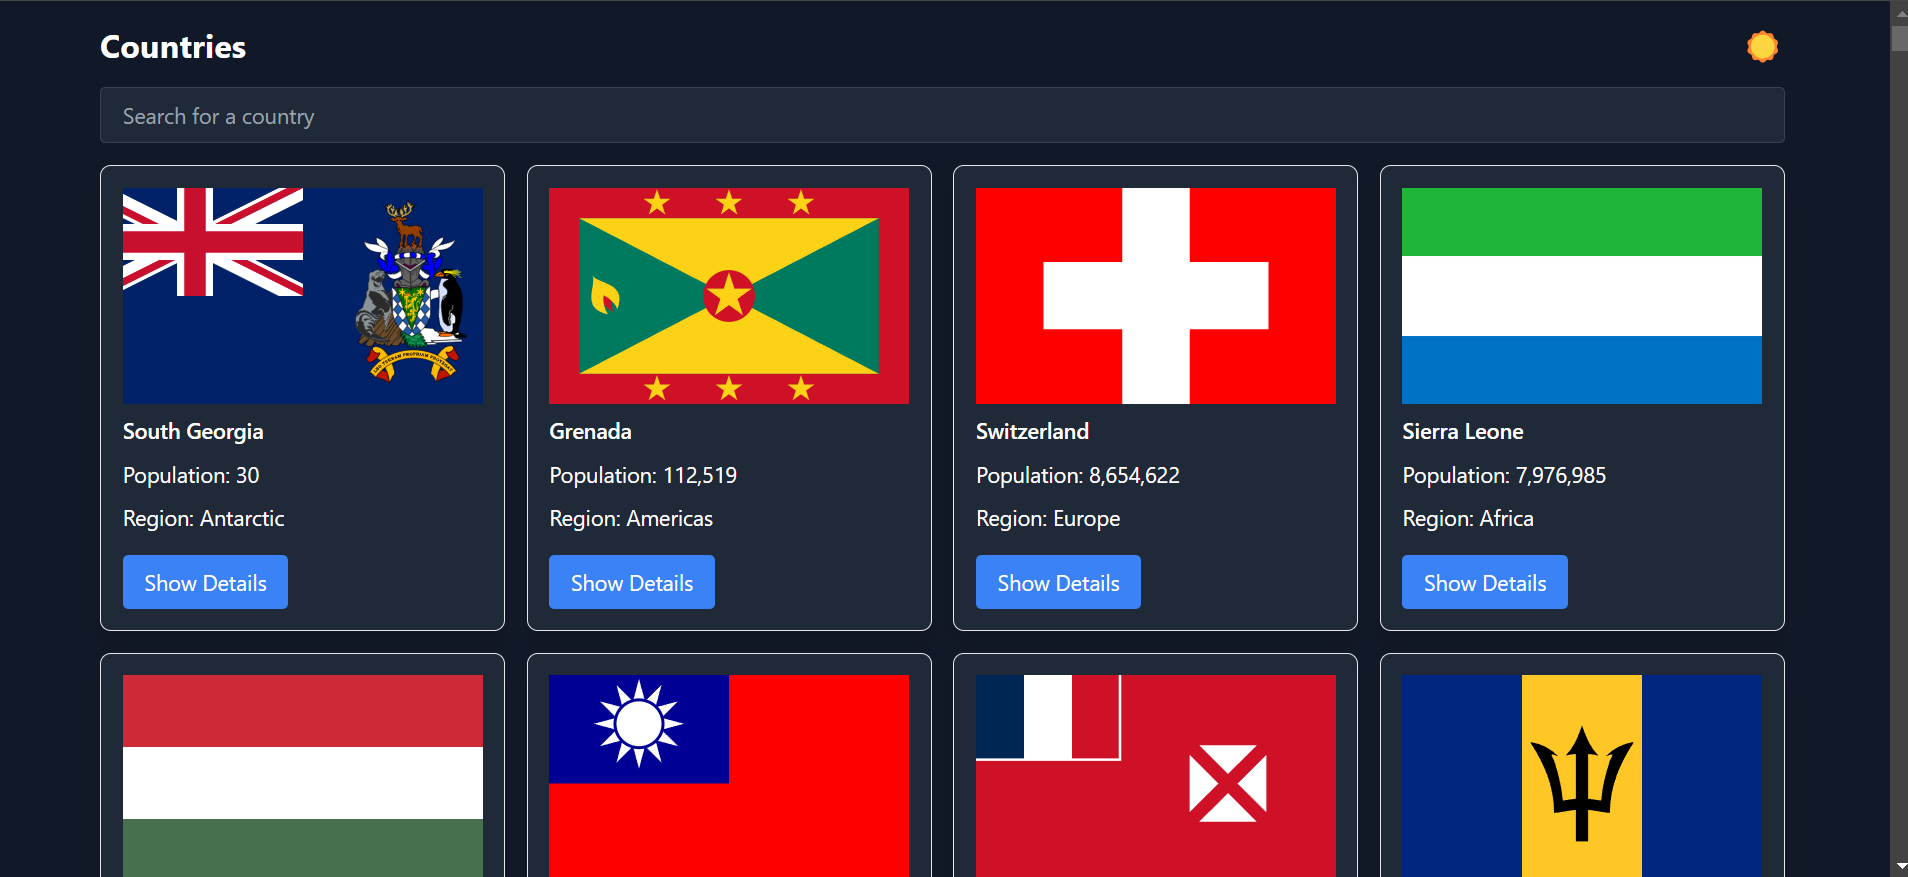
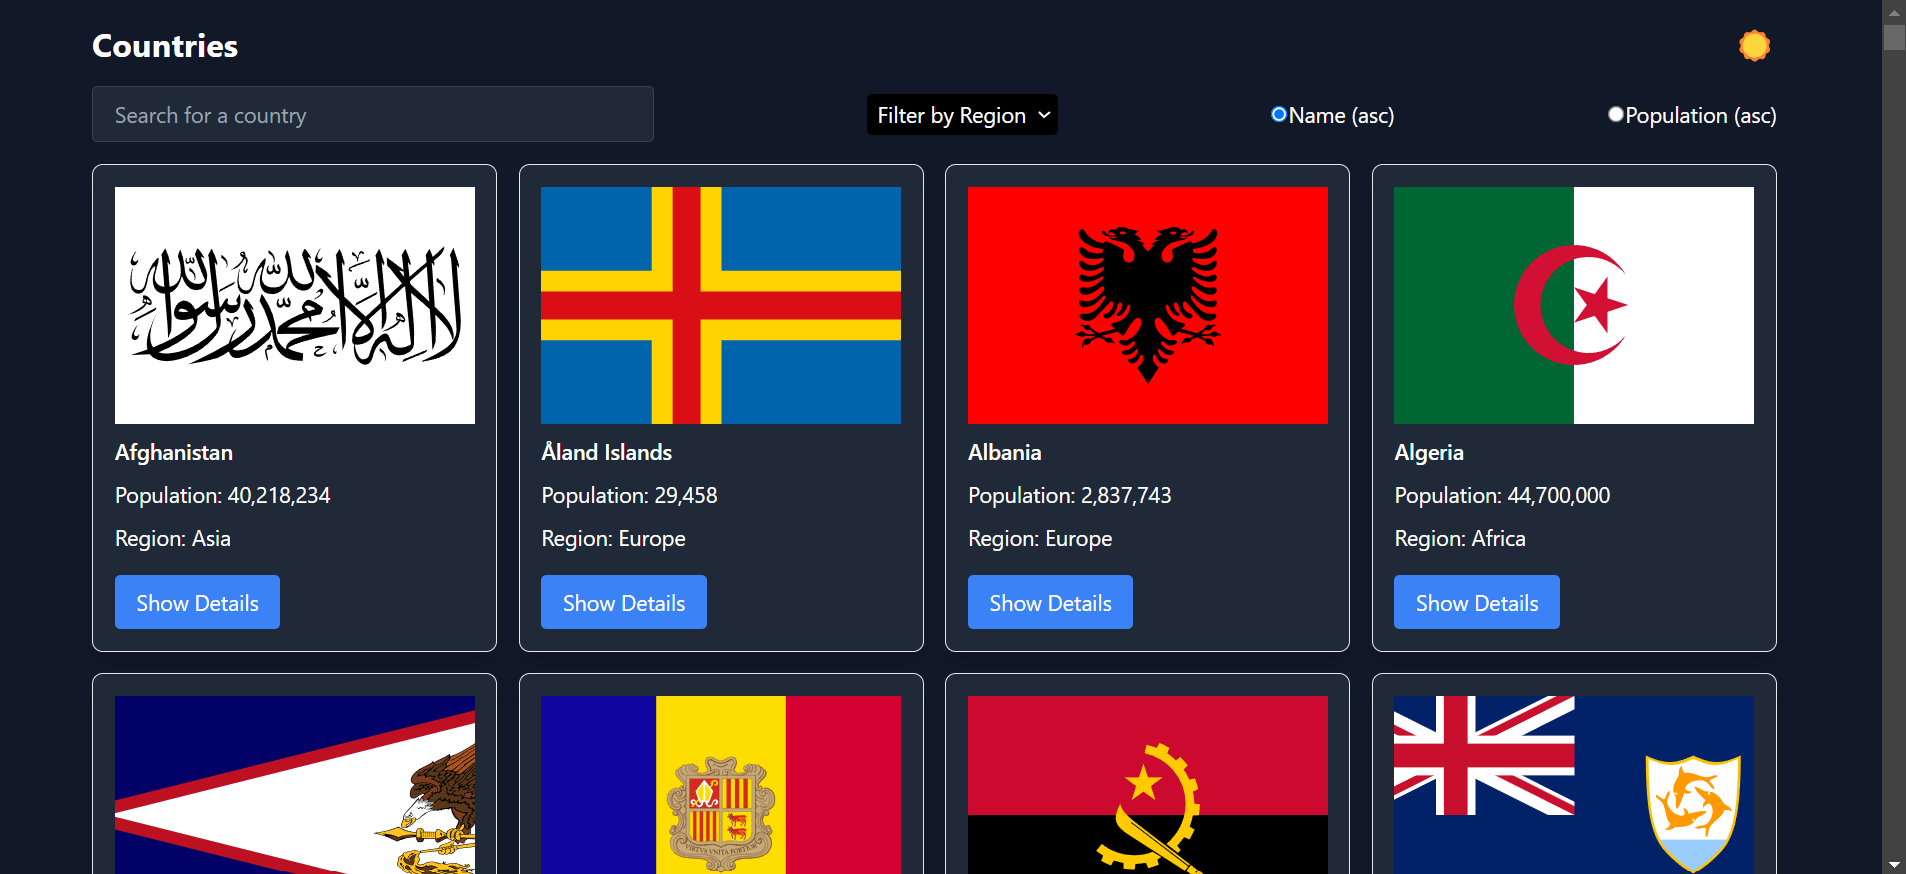
Updated Readme

diff --git a/README.md b/README.md
@@ -1,12 +1,14 @@
 # Country Search App 🌍
 
-A responsive React app to explore country information, featuring dark mode, a search bar, and detailed country views using the REST Countries API.
+A responsive React app to explore country information, featuring dark mode, a search bar, region filtering, sorting options, and detailed country views using the REST Countries API.
 
 ## Features
 - **Home Page**: Displays all countries in responsive cards.
 - **Search**: Filter countries by name.
 - **Dark Mode**: Toggle between light and dark themes.
 - **Country Details**: View extended details about each country on a dedicated page.
+- **Region Filter**: Filter countries by region.
+- **Sorting**: Sort countries by name or population.
 
 ## Screenshots
 ![Home Page Light Mode](public/screenshots/home-light.png)  
@@ -43,12 +45,17 @@ src/
 ├── components/
 │   ├── CountryCard.jsx       # Card for country summary
 │   ├── CountryDetail.jsx     # Detailed country view
-│   └── Header.jsx            # Header component with dark mode toggle
+│   └── Header.jsx            # Header component with dark mode toggle and search
+├── context/
+│   └── CountriesContext.jsx      # Provides context to toggle dark and light modes
+├── hooks/
+│   └── useFetch.jsx           # Custom hook to fetch data from the API
 ├── App.jsx                   # Main app file with routing
 └── main.jsx                  # React entry point for Vite
-
 ```
 
 ## API Reference
 
 - **Countries API**: `https://restcountries.com/v3.1/all`
+
+--- 
